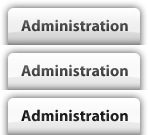
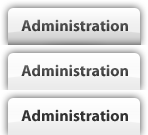
PRKC-445 floating taskbar styles

diff --git a/pro-ctcae/web/src/main/webapp/css/common.css b/pro-ctcae/web/src/main/webapp/css/common.css
@@ -315,7 +315,7 @@ a#firstlevelnav_manageFormController:link {
     background-position: 0px 0px;
 }
 
-a#firstlevelnav_manageFormController:hover {
+a#firstlevelnav_manageFormController:hover,a#firstlevelnav_manageFormController.fthover {
     background-position: 0px -45px;
 }
 
@@ -342,7 +342,7 @@ a#firstlevelnav_searchStudyController:link {
     background-position: 0px 0px;
 }
 
-a#firstlevelnav_searchStudyController:hover {
+a#firstlevelnav_searchStudyController:hover, a#firstlevelnav_searchStudyController.fthover {
     background-position: 0px -45px;
 }
 
@@ -369,7 +369,7 @@ a#firstlevelnav_scheduleCrfController:link {
     background-position: 0px 0px;
 }
 
-a#firstlevelnav_scheduleCrfController:hover {
+a#firstlevelnav_scheduleCrfController:hover, a#firstlevelnav_scheduleCrfController.fthover {
     background-position: 0px -45px;
 }
 
@@ -396,7 +396,7 @@ a#firstlevelnav_monitorFormController:link {
     background-position: 0px 0px;
 }
 
-a#firstlevelnav_monitorFormController:hover {
+a#firstlevelnav_monitorFormController:hover, a#firstlevelnav_monitorFormController.fthover {
     background-position: 0px -45px;
 }
 
@@ -423,7 +423,7 @@ a#firstlevelnav_createRuleController:link {
     background-position: 0px 0px;
 }
 
-a#firstlevelnav_createRuleController:hover {
+a#firstlevelnav_createRuleController:hover,a#firstlevelnav_createRuleController.fthover {
     background-position: 0px -45px;
 }
 
@@ -450,7 +450,7 @@ a#firstlevelnav_searchClinicalStaffController:link {
     background-position: 0px 0px;
 }
 
-a#firstlevelnav_searchClinicalStaffController:hover {
+a#firstlevelnav_searchClinicalStaffController:hover, a#firstlevelnav_searchClinicalStaffController.fthover {
     background-position: 0px -45px;
 }
 
@@ -477,7 +477,7 @@ a#firstlevelnav_reportSearchCriteriaController:link {
     background-position: 0px 0px;
 }
 
-a#firstlevelnav_reportSearchCriteriaController:hover {
+a#firstlevelnav_reportSearchCriteriaController:hover, a#firstlevelnav_reportSearchCriteriaController.fthover {
     background-position: 0px -45px;
 }
 
@@ -544,7 +544,7 @@ ul.tabs li {
 */
 /**** TASKS */
 
-#taskbar {
+#taskbar, #floatingTaskbar {
     background: url(../images/blue/taskbar_BG.png) repeat-x top;
     height: 51px;
     width: 970px;
@@ -557,9 +557,14 @@ ul.tabs li {
     z-index: 1;
     left: 0px;
 }
+#floatingTaskbar {
+    background: url(../images/blue/floatingTaskbar_BG.png) repeat-x top;
+	color:#494949;
 
-#taskbar a.lte4 {
-    color: #FFF;
+}
+
+#taskbar a.lte4, #floatingTaskbar a.lte4 {
+    color: inherit;
     text-decoration: none;
     height: 43px;
     width: 232px;
@@ -568,7 +573,7 @@ ul.tabs li {
     font-weight: bold;
 }
 
-#taskbar a.gt4 {
+#taskbar a.gt4, #floatingTaskbar a.gt4 {
     color: #FFF;
     text-decoration: none;
     height: 19px;
@@ -582,17 +587,17 @@ ul.tabs li {
     margin-right: 2px;
 }
 
-#taskbar a.gt4:hover {
+#taskbar a.gt4:hover, #floatingTaskbar a.gt4:hover {
     background-image: url(../images/blue/secondlevelnav_hover_gt4.png);
     background-repeat: no-repeat;
 }
 
-#taskbar a.gt4:active {
+#taskbar a.gt4:active, #floatingTaskbar a.gt4:active {
     background-image: url(../images/blue/secondlevelnav_hover_gt4.png);
     background-repeat: no-repeat;
 }
 
-#taskbar a.lte4 img {
+#taskbar a.lte4 img, #floatingTaskbar a.lte4 img {
     margin-right: 7px;
     margin-left: 5px;
     vertical-align: middle;
@@ -603,19 +608,26 @@ ul.tabs li {
     background-image: url(../images/blue/secondlevelnav_hover.png);
     background-repeat: no-repeat;
 }
-
+#floatingTaskbar a:hover {
+    background-image: url(../images/blue/ftsecondlevelnav_hover.png);
+    background-repeat: no-repeat;
+}
 #taskbar a:active {
     color: #E4E9F6;
     background-image: url(../images/blue/secondlevelnav_hover.png);
     background-repeat: no-repeat;
 }
-
-#taskbar a.lte4 img.imagegt18 {
+#floatingTaskbar a:active {
+	color: #333;
+    background-image: url(../images/blue/ftsecondlevelnav_hover.png);
+    background-repeat: no-repeat;
+}
+#taskbar a.lte4 img.imagegt18, #floatingTaskbar a.lte4 img.imagegt18 {
     float: left;
     margin-top: 6px;
 }
 
-#taskbar a.lte4.gt18 {
+#taskbar a.lte4.gt18, #floatingTaskbar a.lte4.gt18 {
     padding-top: 2px;
     display: inline;
 }
@@ -624,12 +636,12 @@ ul.tabs li {
     padding-right: 4px
 }
 
-#taskbar a.selected.lte4 {
+#taskbar a.selected.lte4, #floatingTaskbar a.selected.lte4 {
     background-image: url(../images/blue/secondlevelnav_selected.png);
     background-repeat: no-repeat;
 }
 
-#taskbar a.selected.gt4 {
+#taskbar a.selected.gt4, #floatingTaskbar a.selected.gt4 {
     background-image: url(../images/blue/secondlevelnav_gt4_selected.png);
     background-repeat: no-repeat;
 }
